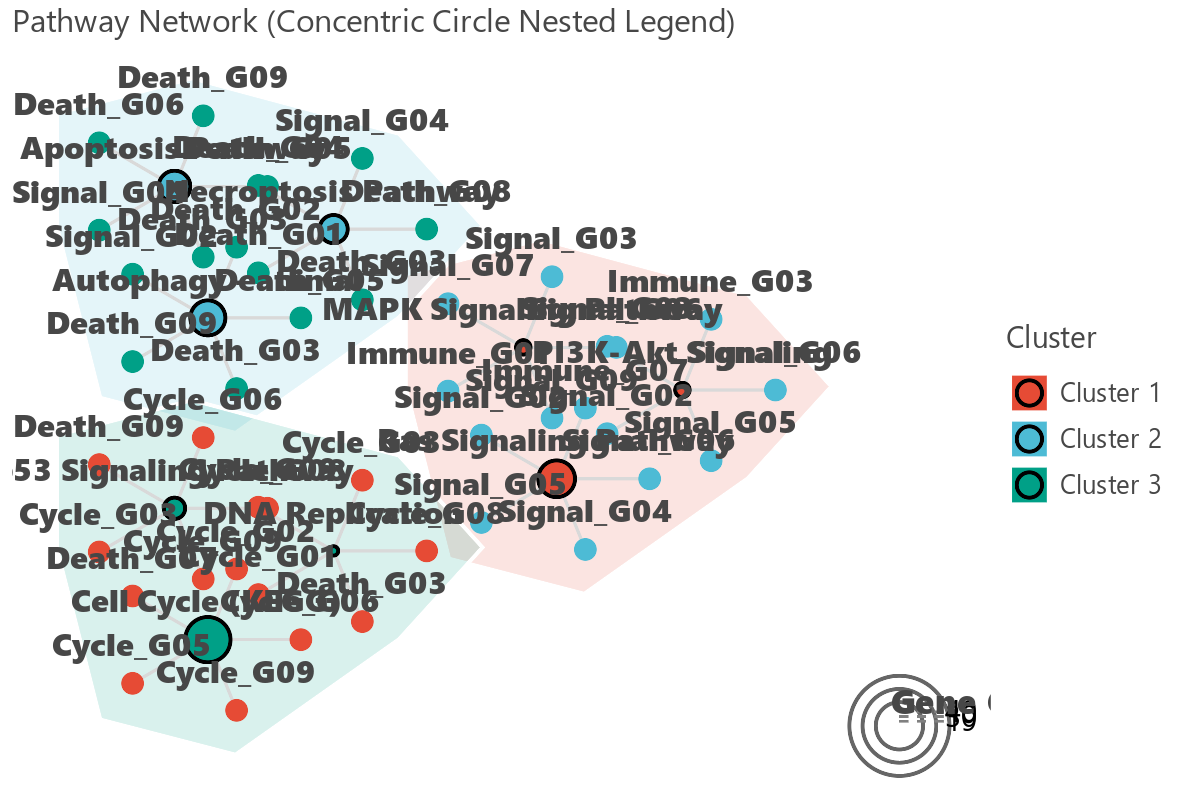
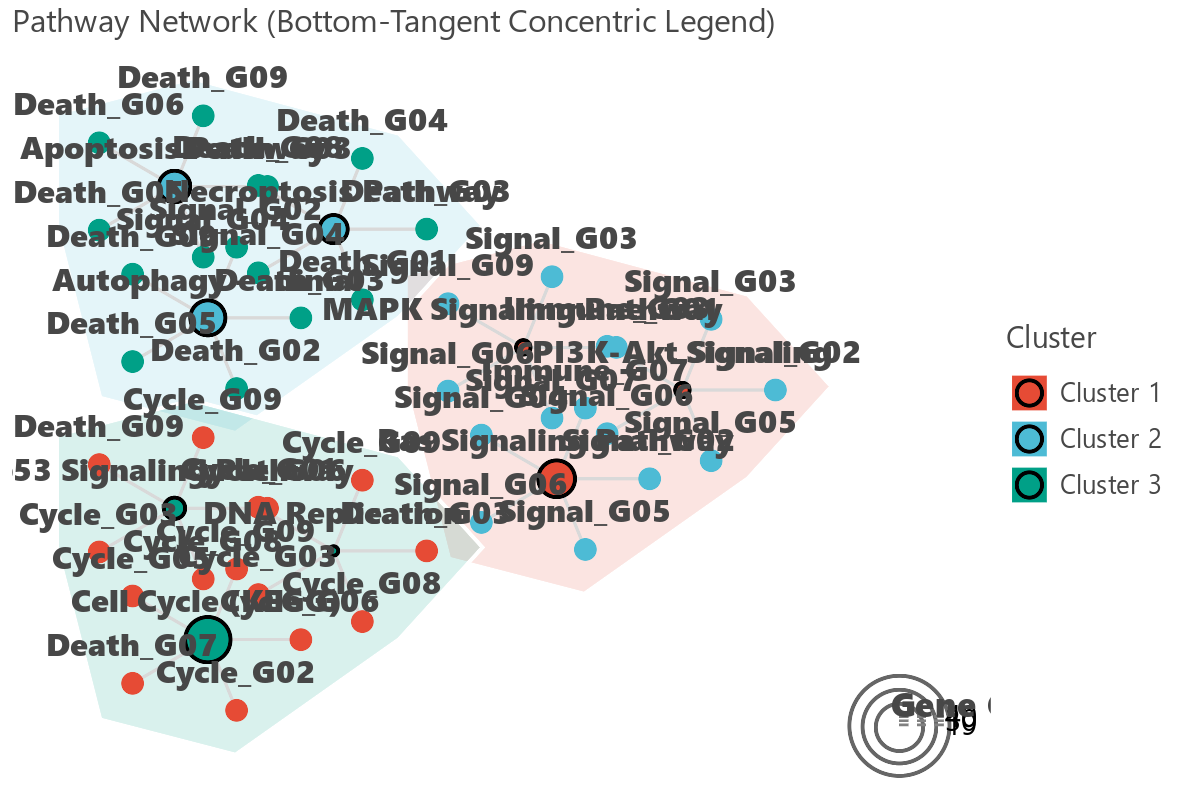
feat: Align nested circle legend items at bottom tangent (底部相切) in visEnrichNetwork

diff --git a/src/letspubpy/plots.py b/src/letspubpy/plots.py
@@ -2326,19 +2326,26 @@ gglollipop_enrich = visEnrichLollipop
 
 
 def _add_concentric_legend(p_net, x_pos, y_pos, min_val, mid_val, max_val, title='Gene Count'):
-    c_df = pd.DataFrame([{'x': x_pos, 'y': y_pos}])
+    # Bottom tangent circles: shift mid and min centers slightly downwards
+    c_max = pd.DataFrame([{'x': x_pos, 'y': y_pos}])
+    c_mid = pd.DataFrame([{'x': x_pos, 'y': y_pos - 0.025}])
+    c_min = pd.DataFrame([{'x': x_pos, 'y': y_pos - 0.05}])
+    
+    y_top_max = y_pos + 0.30
+    y_top_mid = y_pos + 0.16
+    y_top_min = y_pos + 0.03
     
     lines_df = pd.DataFrame([
-        {'x': x_pos, 'y': y_pos + 0.45, 'xend': x_pos + 1.2, 'yend': y_pos + 0.45, 'label': str(int(max_val))},
-        {'x': x_pos, 'y': y_pos + 0.30, 'xend': x_pos + 1.2, 'yend': y_pos + 0.30, 'label': str(int(mid_val))},
-        {'x': x_pos, 'y': y_pos + 0.15, 'xend': x_pos + 1.2, 'yend': y_pos + 0.15, 'label': str(int(min_val))}
+        {'x': x_pos, 'y': y_top_max, 'xend': x_pos + 1.2, 'yend': y_top_max, 'label': str(int(max_val))},
+        {'x': x_pos, 'y': y_top_mid, 'xend': x_pos + 1.2, 'yend': y_top_mid, 'label': str(int(mid_val))},
+        {'x': x_pos, 'y': y_top_min, 'xend': x_pos + 1.2, 'yend': y_top_min, 'label': str(int(min_val))}
     ])
     
-    title_df = pd.DataFrame([{'x': x_pos - 0.2, 'y': y_pos + 0.75, 'label': title}])
+    title_df = pd.DataFrame([{'x': x_pos - 0.2, 'y': y_top_max + 0.35, 'label': title}])
     
-    p_net += geom_point(data=c_df, mapping=aes('x', 'y'), shape=21, color='gray40', fill='#00000000', size=22.0)
-    p_net += geom_point(data=c_df, mapping=aes('x', 'y'), shape=21, color='gray40', fill='#00000000', size=16.0)
-    p_net += geom_point(data=c_df, mapping=aes('x', 'y'), shape=21, color='gray40', fill='#00000000', size=10.0)
+    p_net += geom_point(data=c_max, mapping=aes('x', 'y'), shape=21, color='gray40', fill='#00000000', size=22.0)
+    p_net += geom_point(data=c_mid, mapping=aes('x', 'y'), shape=21, color='gray40', fill='#00000000', size=16.0)
+    p_net += geom_point(data=c_min, mapping=aes('x', 'y'), shape=21, color='gray40', fill='#00000000', size=10.0)
     
     p_net += geom_segment(data=lines_df, mapping=aes('x', 'y', xend='xend', yend='yend'), color='gray50', linetype='dashed', size=0.5)
     p_net += geom_text(data=lines_df, mapping=aes(x='xend', y='yend', label='label'), hjust=0, size=7.5, color='black')
